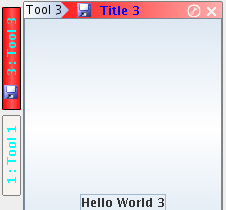
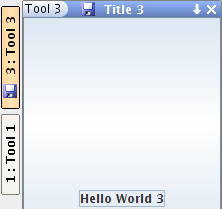
last updates...
git-svn-id: https://svn.code.sf.net/p/mydoggy/code/mydoggy/trunk@840 2a62bbde-051e-0410-bf3e-cfb6b34e140d

Changed region(s): [[0.0, 0.0, 1.0, 1.0], [0.3514, 0.89, 0.7568, 1.0]]

diff --git a/mydoggy-examples/src/main/java/org/noos/xing/mydoggy/mydoggyset/MyDoggySet.java b/mydoggy-examples/src/main/java/org/noos/xing/mydoggy/mydoggyset/MyDoggySet.java
@@ -10,14 +10,21 @@ import org.noos.xing.mydoggy.mydoggyset.ui.LookAndFeelMenuItem;
 import org.noos.xing.mydoggy.mydoggyset.ui.MonitorPanel;
 import org.noos.xing.mydoggy.mydoggyset.ui.RuntimeMemoryMonitorSource;
 import org.noos.xing.mydoggy.plaf.MyDoggyToolWindowManager;
+import org.noos.xing.mydoggy.plaf.ui.DockedContainer;
+import org.noos.xing.mydoggy.plaf.ui.MyDoggyKeySpace;
 import org.noos.xing.mydoggy.plaf.ui.ResourceManager;
+import org.noos.xing.mydoggy.plaf.ui.ToolWindowDescriptor;
 import org.noos.xing.mydoggy.plaf.ui.cmp.ExtendedTableLayout;
 import org.noos.xing.mydoggy.plaf.ui.content.MyDoggyMultiSplitContentManagerUI;
+import org.noos.xing.mydoggy.plaf.ui.look.MyDoggyResourceManager;
+import org.noos.xing.mydoggy.plaf.ui.look.ToolWindowTitleBarUI;
+import org.noos.xing.mydoggy.plaf.ui.util.GraphicsUtil;
 import org.noos.xing.mydoggy.plaf.ui.util.SwingUtil;
 import org.noos.xing.yasaf.plaf.action.ViewContextAction;
 import org.noos.xing.yasaf.view.ViewContext;
 
 import javax.swing.*;
+import javax.swing.plaf.ComponentUI;
 import java.awt.*;
 import java.awt.event.ActionEvent;
 import java.awt.event.ActionListener;
@@ -242,8 +249,95 @@ public class MyDoggySet {
 */
         myDoggyToolWindowManager.getResourceManager().putProperty("ContentManagerUI.ContentManagerUiListener.import", "true");
 
-/*
+        ResourceManager resourceManager = myDoggyToolWindowManager.getResourceManager();
         MyDoggyResourceManager myDoggyResourceManager = (MyDoggyResourceManager) myDoggyToolWindowManager.getResourceManager();
+
+/*
+        resourceManager.putColor(MyDoggyKeySpace.TWTB_BACKGROUND_ACTIVE_START, Color.BLUE);
+        resourceManager.putColor(MyDoggyKeySpace.TWTB_BACKGROUND_ACTIVE_END, Color.GREEN);
+        resourceManager.putColor(MyDoggyKeySpace.TWTB_BACKGROUND_INACTIVE_START, Color.BLACK);
+        resourceManager.putColor(MyDoggyKeySpace.TWTB_BACKGROUND_INACTIVE_END, Color.GREEN.darker());
+*/
+
+/*
+        resourceManager.putColor(MyDoggyKeySpace.TWTB_TAB_FOREGROUND_SELECTED, Color.GREEN);
+        resourceManager.putColor(MyDoggyKeySpace.TWTB_TAB_FOREGROUND_UNSELECTED, Color.DARK_GRAY);
+*/
+
+/*
+        resourceManager.putColor(MyDoggyKeySpace.RAB_BACKGROUND_ACTIVE_START, Color.RED);
+        resourceManager.putColor(MyDoggyKeySpace.RAB_BACKGROUND_ACTIVE_END, Color.ORANGE);
+*/
+
+/*
+        resourceManager.putColor(MyDoggyKeySpace.RAB_FOREGROUND, Color.BLUE);
+*/
+
+        myDoggyResourceManager.putComponentUICreator(MyDoggyKeySpace.TOOL_WINDOW_TITLE_BAR_UI,
+                                                     new MyDoggyResourceManager.ComponentUICreator() {
+
+                                                         public ComponentUI createComponentUI(ToolWindowManager manager, ResourceManager resourceManager, Object... args) {
+                                                             return new ToolWindowTitleBarUI((ToolWindowDescriptor) args[0],
+                                                                                             (DockedContainer) args[1]) {
+                                                                 protected void updateToolWindowTitleBar(Graphics g, JComponent c, Color backgroundStart, Color backgroundEnd, Color idBackgroundColor, Color idColor) {
+                                                                     Rectangle r = c.getBounds();
+                                                                     r.x = r.y = 0;
+
+                                                                     GraphicsUtil.fillRect(g, r,
+                                                                                           backgroundStart, backgroundEnd,
+                                                                                           null,
+                                                                                           GraphicsUtil.LEFT_TO_RIGHT_GRADIENT);
+
+                                                                     if (descriptor.getDockedTypeDescriptor().isIdVisibleOnTitleBar() ||
+                                                                         toolWindow.getType() == ToolWindowType.FLOATING ||
+                                                                         toolWindow.getType() == ToolWindowType.FLOATING_FREE ||
+                                                                         toolWindow.getType() == ToolWindowType.FLOATING_LIVE) {
+
+                                                                         String id = resourceManager.getUserString(descriptor.getToolWindow().getId());
+                                                                         r.width = g.getFontMetrics().stringWidth(id) + 8;
+
+                                                                         int halfHeigh = (r.height / 2);
+                                                                         GraphicsUtil.fillRect(g, r,
+                                                                                               Color.WHITE,
+                                                                                               idBackgroundColor,
+                                                                                               new Polygon(new int[]{r.x, r.x + r.width - halfHeigh, r.x + r.width - halfHeigh, r.x},
+                                                                                                           new int[]{r.y, r.y, r.y + r.height, r.y + r.height},
+                                                                                                           4),
+                                                                                               GraphicsUtil.LEFT_TO_RIGHT_GRADIENT);
+
+
+                                                                         Polygon polygon = new Polygon();
+                                                                         polygon.addPoint(r.x + r.width - halfHeigh, r.y);
+                                                                         polygon.addPoint(r.x + r.width - halfHeigh + 8, r.y + (r.height / 2));
+                                                                         polygon.addPoint(r.x + r.width - halfHeigh, r.y + r.height);
+
+                                                                         GraphicsUtil.fillRect(g, r,
+                                                                                               Color.WHITE,
+                                                                                               idBackgroundColor,
+                                                                                               polygon,
+                                                                                               GraphicsUtil.LEFT_TO_RIGHT_GRADIENT);
+
+                                                                         g.setColor(idColor);
+                                                                         g.drawString(id, r.x + 2, r.y + g.getFontMetrics().getAscent());
+                                                                     }
+                                                                 }
+                                                             };
+                                                         }
+                                                     });
+/*
+        myDoggyResourceManager.putInstanceCreator(TitleBarButtons.class,
+                                                  new MyDoggyResourceManager.InstanceCreator() {
+                                                      public Object createComponent(Object... args) {
+                                                          return new MenuTitleBarButtons(
+                                                                  (ToolWindowDescriptor) args[0],
+                                                                  (DockedContainer) args[1]
+                                                          );
+                                                      }
+                                                  }
+        );
+*/
+
+/*
         myDoggyResourceManager.putInstanceCreator(TitleBarButtons.class,
                                                   new MyDoggyResourceManager.InstanceCreator() {
                                                       public Object createComponent(Object... args) {

diff --git a/mydoggy-plaf/src/main/java/org/noos/xing/mydoggy/plaf/ui/MyDoggyKeySpace.java b/mydoggy-plaf/src/main/java/org/noos/xing/mydoggy/plaf/ui/MyDoggyKeySpace.java
@@ -80,6 +80,8 @@ public interface MyDoggyKeySpace {
     String TOOL_WINDOW_TITLE_BAR = "TOOL_WINDOW_TITLE_BAR";
     String TOOL_WINDOW_TITLE_BAR_UI = "TOOL_WINDOW_TITLE_BAR_UI";
     String TOOL_WINDOW_TITLE_BUTTON = "TOOL_WINDOW_TITLE_BUTTON";
+    String TOOL_WINDOW_TAB_BUTTON_UI = "TOOL_WINDOW_TAB_BUTTON_UI";
+
 
     String REPRESENTATIVE_ANCHOR_BUTTON_UI = "REPRESENTATIVE_ANCHOR_BUTTON_UI";
 
